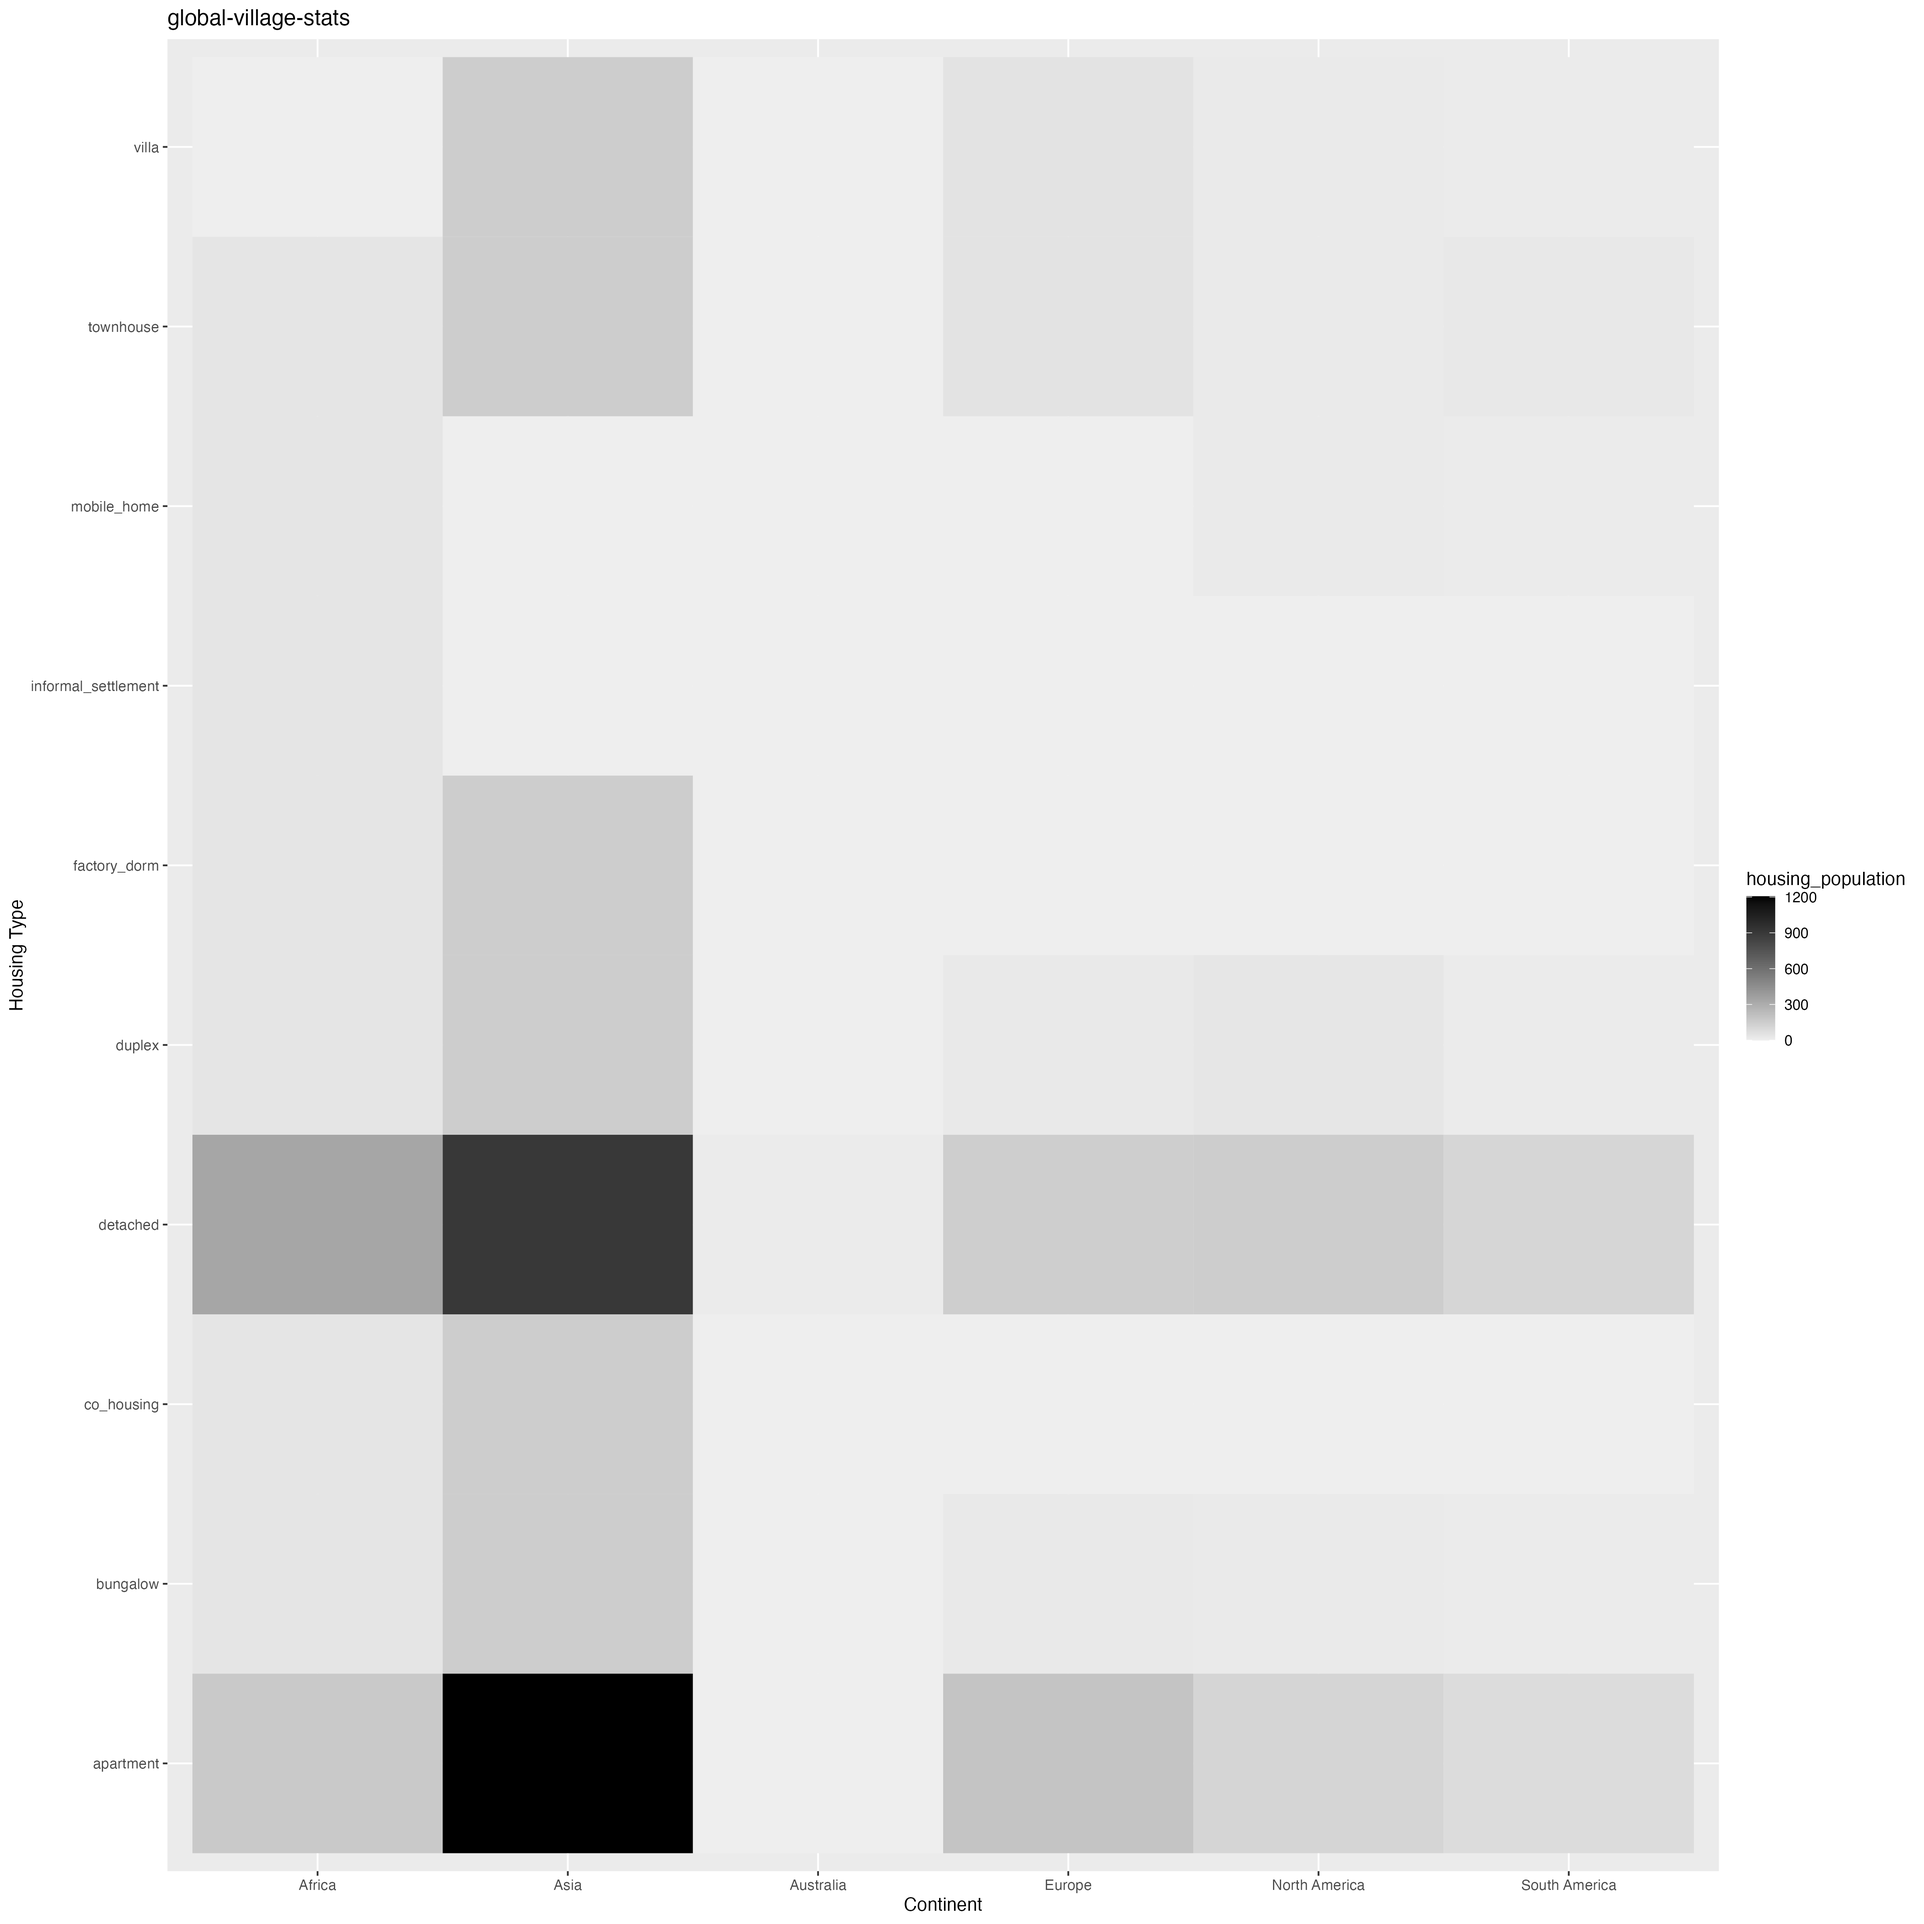
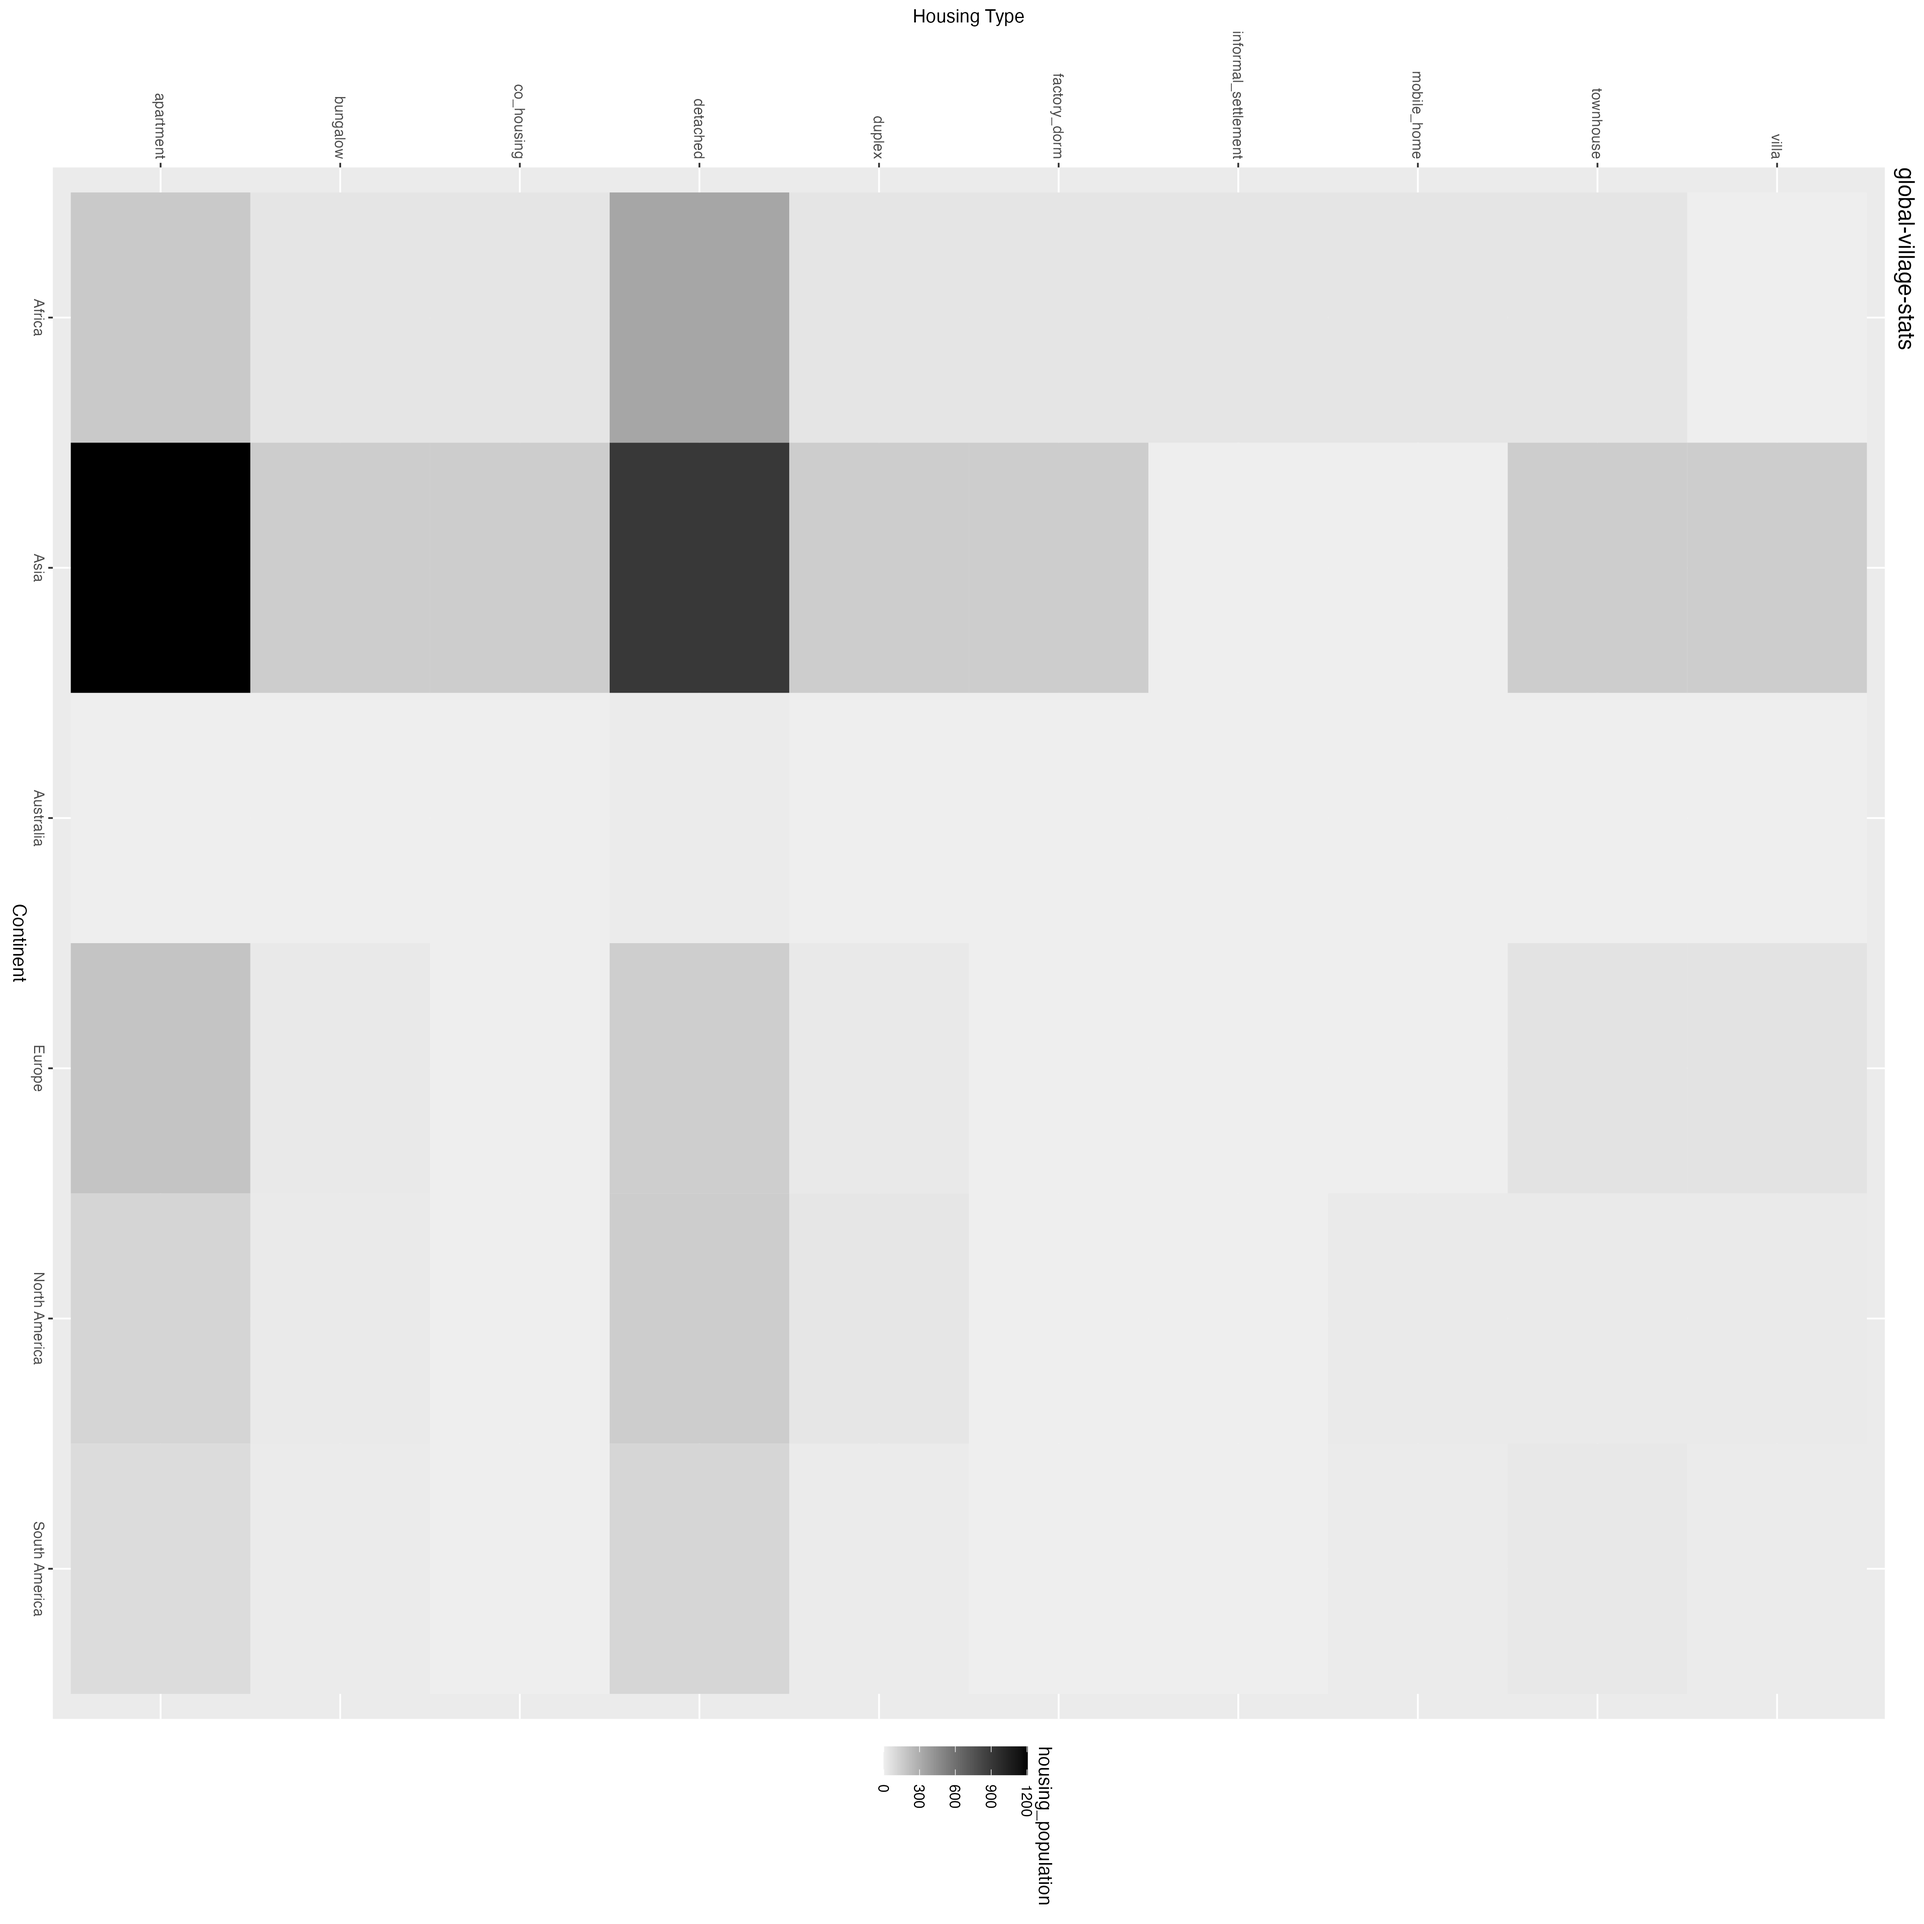
adds README.md

diff --git a/README.md b/README.md
@@ -1,0 +1,5 @@
+[/global-village-stats.png]
+
+##What if the world were just 5000 people what would that look like?
+
+Heat Map and Cross Tabulation in R
